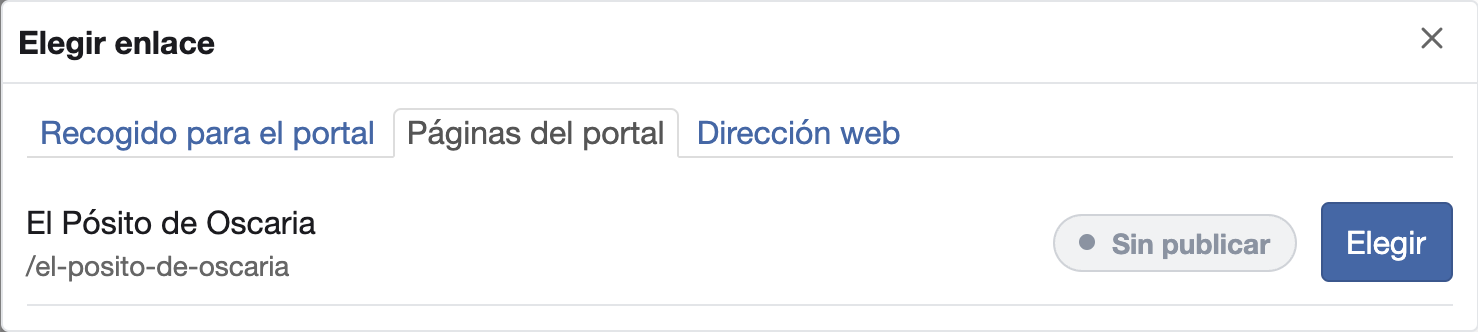
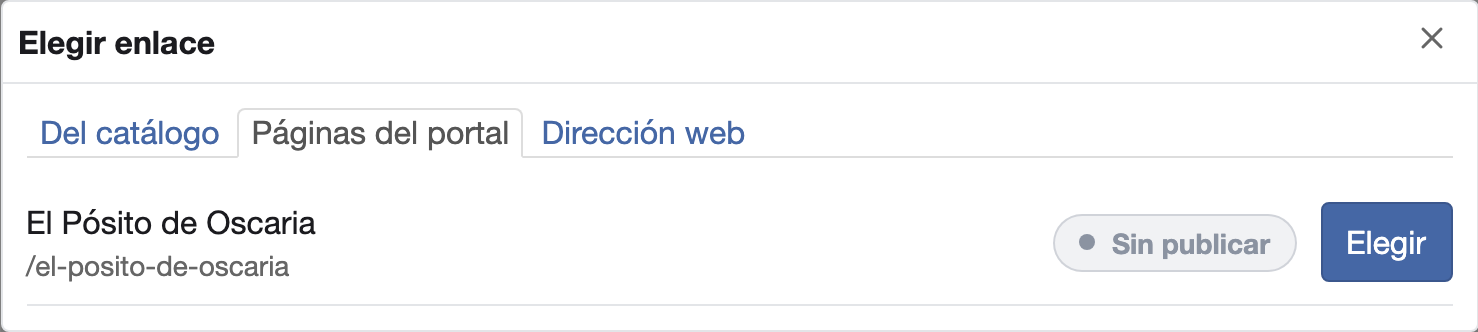
docs(user-guide): lista «Del catálogo», copia en el catálogo, flechas del carrusel y cabeceras sin estado
La guía explica la copia de la referencia en el catálogo, la pestaña «Del catálogo» de los diálogos de imagen y de enlace, el bloque alimentado por una búsqueda (cuenta de fichas, avisos y lista de elementos oculta) y las flechas del carrusel de cabecera. Las doce páginas del portal pierden el campo `status` y las tres capturas sin anchura la reciben.

diff --git a/docs/user-guide/diffusion-portal/catalog-content.md b/docs/user-guide/diffusion-portal/catalog-content.md
@@ -1,45 +1,57 @@
 # Elegir contenido del catálogo
 
 Una ficha, una búsqueda o un nivel del cuadro de clasificación se pueden poner en una página del portal sin escribir
-ninguna dirección. Se recogen en el catálogo y se eligen después desde el editor.
+ninguna dirección. Se copian en el catálogo y se eligen después desde el editor.
 
-## Recoger en el catálogo
+## Copiar en el catálogo
 
-La acción **Copiar referencia para el portal** la ven las cuentas con permiso de administración del portal. Está en:
+La acción **Copiar referencia para el portal** la ven las cuentas con permiso de administración del portal. En la ficha es un botón con su texto; en los resultados y en el cuadro, un icono. Está en:
 
 - la ficha de una descripción;
-- el visor de un adjunto, que recoge la digitalización;
+- el visor de un adjunto, que copia la digitalización;
 - las filas de los resultados que tienen signatura;
 - cada nivel del **Cuadro de fondos**.
 
-Para recoger una búsqueda entera, abre **Más acciones** en la página de resultados y pulsa **Copiar
-búsqueda para el portal**.
+En los resultados y en el cuadro, el icono solo se ve al pasar el ratón por la fila o al llegar a ella con Tab. En una
+pantalla táctil se ve siempre.
 
-Al pulsar, la acción cambia su texto a «Copiada y recogida para el portal». Además de copiar la referencia, la deja en tu
-lista de lo recogido, que el editor ofrece al elegir contenido. Una digitalización se recoge también desde **Gestión de
-digitalizaciones** ([Qué se guarda en el campo](choose-images.md#que-se-guarda-en-el-campo)).
+Para copiar una búsqueda entera, abre **Más acciones** en la página de resultados y pulsa **Copiar búsqueda para el
+portal**.
+
+Al pulsar, la referencia queda en el portapapeles y aparece el aviso «Copiada y añadida a «Del catálogo».». Si no se ha
+podido añadir a la lista, el aviso es «Copiada, pero no se ha podido añadir a «Del catálogo»: vuelve a pulsar.». Una
+digitalización se copia también desde
+**Gestión de digitalizaciones** ([Qué se guarda en el campo](choose-images.md#que-se-guarda-en-el-campo)).
 
 ## Elegirlo en el editor
 
-En el diálogo de una imagen o de un enlace, la primera pestaña es **Recogido para el portal**. Sin nada recogido,
-dice «Aquí aparecen las fichas y las digitalizaciones que recojas en el catálogo con «Copiar referencia para el
-portal».».
+Los diálogos de una imagen y de un enlace tienen la pestaña **Del catálogo**; el de una búsqueda, **Elegir búsqueda**,
+muestra la lista directamente. Con la lista vacía, el texto depende del diálogo:
 
-![El diálogo Elegir imagen con la pestaña Recogido para el portal, todavía vacía.](../../assets/screenshots/es/diffusion-portal/catalog-content/collected-tab.png){ width="739" }
+- En una imagen: «Aquí aparecen las fichas y las digitalizaciones que copies en el catálogo con «Copiar referencia
+  para el portal».».
+- En un enlace: «Aquí aparecen las fichas, las búsquedas y los niveles del cuadro que copies en el catálogo con
+  «Copiar referencia para el portal» o «Copiar búsqueda para el portal».».
+- En una búsqueda: «Aquí aparecen las búsquedas que copies en el catálogo con «Copiar búsqueda para el portal».».
 
-Lo último que recoges sale arriba. Una ficha, una búsqueda o un nivel se nombra por su tipo y su título, por ejemplo
-«Ficha: Plano de la acequia de San Esteban de Litera», y una digitalización por el nombre de su fichero. Cada entrada
-tiene dos botones:
+![El diálogo Elegir imagen con la pestaña Del catálogo, todavía vacía.](../../assets/screenshots/es/diffusion-portal/catalog-content/collected-tab.png){ width="739" }
 
-- **Elegir** la pone en el campo.
-- **Quitar de lo recogido** la saca de la lista, sin pedir confirmación. No borra nada del catálogo.
+Arriba está lo último que has copiado o elegido. Cada entrada se nombra por su tipo y su título, por ejemplo «Ficha:
+Plano de la acequia de San Esteban de Litera»; una digitalización, por el nombre de su fichero. Una ficha con imagen
+muestra su miniatura, una búsqueda tiene una lupa y un nivel del cuadro, una carpeta. **Buscar en la lista** filtra las
+entradas por su nombre.
 
-Un campo de imagen ofrece las fichas y las digitalizaciones. Una ficha que tiene imagen sale con ella, y el campo la
-muestra con su miniatura, el título de la ficha y su tamaño. Un campo de enlace ofrece las fichas, las búsquedas y los
-niveles del cuadro; las búsquedas y los niveles no llevan miniatura y el hueco queda vacío.
+Pulsar una entrada la elige. **Quitar** aparece al pasar el ratón por la entrada o al llegar a ella con Tab, y siempre
+en una pantalla táctil. Quita la entrada de la lista sin pedir confirmación y no borra nada del catálogo.
 
-El diálogo **Elegir imágenes**, el de **Añadir varias imágenes**, también tiene esta pestaña. Allí cada ficha y cada
-digitalización lleva una casilla en lugar de **Elegir**, y se pulsa **Añadir las marcadas**.
+La lista guarda 100 entradas por usuario. Cuando se llena, se descarta la que lleva más tiempo sin usarse. La
+instalación puede cambiar ese número.
+
+Un campo de imagen ofrece las fichas y las digitalizaciones; el campo muestra la miniatura, el título y el tamaño. Un
+campo de enlace ofrece las fichas, las búsquedas y los niveles del cuadro.
+
+El diálogo **Elegir imágenes**, el de **Añadir varias imágenes**, también tiene esta pestaña. Allí cada entrada tiene
+una casilla, y se pulsa **Añadir las marcadas**.
 
 El enlace se explica en [Elegir un enlace](choose-images.md#elegir-un-enlace).
 
@@ -50,18 +62,26 @@ uno a uno.
 
 1. Selecciona el bloque y pasa a la pestaña **Elementos**.
 2. En **De dónde salen los elementos**, elige **De una búsqueda del catálogo**.
-3. Pulsa **Elegir búsqueda…**. El diálogo **Elegir búsqueda** lista las búsquedas que has recogido.
+3. Pulsa **Elegir búsqueda…**. El diálogo **Elegir búsqueda** lista las búsquedas que has copiado, cada una con las
+   fichas que vería un visitante.
 
     ![El origen De una búsqueda del catálogo, con Elegir búsqueda…, el número de elementos y el orden.](../../assets/screenshots/es/diffusion-portal/catalog-content/items-source.png){ width="395" }
 
 Con la búsqueda elegida, el bloque muestra su nombre, por ejemplo «Búsqueda: Cualquier término contiene archivo», con
-**Cambiar** y **Quitar**. **Quitar** devuelve el bloque a **Los que añado yo**, con los elementos que ya tenía.
+**Cambiar**, **Quitar** y **Abrir en el catálogo**, que la abre en otra pestaña. Entonces la pestaña no lista los
+elementos ni ofrece **Añadir elemento**. **Quitar** devuelve el bloque a **Los que añado yo**, con los elementos que
+ya tenía.
 
 **Número de elementos** admite de 1 a 30. **Orden** ofrece **El de la búsqueda**, **Título**, **Fecha, de la más
-antigua a la más reciente**, **Fecha, de la más reciente a la más antigua** y **Signatura**.
+antigua a la más reciente**, **Fecha, de la más reciente a la más antigua** y **Signatura**. El bloque toma solo la
+primera página de resultados, de 30 fichas.
 
-El bloque enseña las fichas que vería un visitante sin sesión del sitio público, también en **Vista previa**. Los
-elementos que habías añadido a mano se conservan, pero no se muestran.
+El bloque enseña las fichas que vería un visitante sin sesión del sitio público, también en **Vista previa**, y solo
+las que tienen digitalización. El campo indica cuántas son: «Un visitante verá 8 de las 12 fichas que ves tú: las demás
+no son públicas o no tienen digitalizaciones.».
 
-Si ese visitante no vería ninguna ficha, debajo sale el aviso «Un visitante sin sesión no vería ninguna ficha de esta
-búsqueda, así que el bloque saldrá vacío.».
+Si el bloque va a quedar vacío, debajo aparece uno de estos avisos:
+
+- «Un visitante sin sesión no vería ninguna ficha de esta búsqueda, así que el bloque saldrá vacío.».
+- «Un visitante verá 3 fichas de esta búsqueda, pero el bloque no puede enseñar ninguna, así que saldrá vacío.».
+- «No se ha podido consultar esta búsqueda, así que el bloque saldrá vacío hasta que se pueda.».

diff --git a/docs/user-guide/diffusion-portal/choose-images.md b/docs/user-guide/diffusion-portal/choose-images.md
@@ -1,13 +1,9 @@
----
-status: published
----
-
 # Elegir las imágenes de un bloque
 
 Cada campo de imagen de un bloque, como **Imagen** o **Imagen de fondo**, se rellena desde el diálogo **Elegir
 imagen**. El diálogo tiene una pestaña por origen de la imagen:
 
-- **Recogido para el portal**: las fichas y las digitalizaciones que has recogido en el catálogo
+- **Del catálogo**: las fichas y las digitalizaciones que has copiado en el catálogo
   ([Elegir contenido del catálogo](catalog-content.md)).
 - **Digitalizaciones**: las copias digitales asociadas a las descripciones del archivo.
 - **Imágenes y vídeos del portal**: un espacio aparte para el material propio de la web, como cabeceras, logotipos o
@@ -46,9 +42,10 @@ elemento. Son el **Carrusel de cabecera**, la **Tira de imágenes de cabecera**,
 **Cuadrícula de elementos**, el **Mosaico de fotos**, la **Galería ajustada** y **Fondos y colecciones**.
 
 1. Selecciona el bloque y pasa a la pestaña **Elementos**.
-2. Pulsa **Añadir varias imágenes**. Se abre el diálogo **Elegir imágenes**, con las pestañas **Recogido para el
-   portal**, **Digitalizaciones** e **Imágenes y vídeos del portal**. En **Recogido para el portal** se marca cada
-   ficha o digitalización con su casilla y se pulsa **Añadir las marcadas**; los pasos 3 y 4 son para las otras dos pestañas. La pestaña **Dirección web** no sale aquí: cada dirección se escribe en su elemento.
+2. Pulsa **Añadir varias imágenes**. Se abre el diálogo **Elegir imágenes**, con las pestañas **Del catálogo**,
+   **Digitalizaciones** e **Imágenes y vídeos del portal**. En **Del catálogo** se marca cada ficha o digitalización
+   con su casilla y se pulsa **Añadir las marcadas**; los pasos 3 y 4 son para las otras dos pestañas. La pestaña
+   **Dirección web** no sale aquí: cada dirección se escribe en su elemento.
 3. Entra en la carpeta y marca la casilla de cada imagen, en el orden en que quieres verlas. Abajo aparece
    «Seleccionados» con el número de imágenes marcadas y sus nombres.
 4. Pulsa **Vincular**, que lleva entre paréntesis cuántas has marcado, por ejemplo **Vincular (3)**.
@@ -169,13 +166,13 @@ la imagen del almacén.
 La referencia solo la entiende el portal. No es una dirección para abrir en el navegador ni para compartir fuera de
 él.
 
-Una digitalización se puede recoger en la administración y elegirla después en **Recogido para el portal**:
+Una digitalización se puede copiar desde la administración y elegirla después en **Del catálogo**:
 
 1. Pulsa **Administración** en el menú superior y, después, **Gestión de digitalizaciones**.
 2. En la fila de la digitalización, pulsa **Más acciones** y después **Copiar referencia para el portal**. Sale el
-   aviso «Copiada y recogida para el portal». La acción la ven las cuentas con permiso de administración del portal.
-3. En el editor, abre el diálogo de la imagen. La digitalización sale en la pestaña **Recogido para el portal**, con
-   su nombre, y se elige con **Elegir** ([Elegir contenido del catálogo](catalog-content.md#elegirlo-en-el-editor)).
+   aviso «Copiada y añadida a «Del catálogo».». La acción la ven las cuentas con permiso de administración del portal.
+3. En el editor, abre el diálogo de la imagen. La digitalización sale en la pestaña **Del catálogo**, con
+   su nombre, y se elige pulsando su fila ([Elegir contenido del catálogo](catalog-content.md#elegirlo-en-el-editor)).
 
 ## Elegir un enlace
 
@@ -184,7 +181,7 @@ vacío, el botón es **Elegir enlace…**. Con un enlace elegido, el campo dice 
 portal» o «Ficha: Plano de la acequia de San Esteban de Litera», y ofrece **Cambiar** y **Quitar**. El diálogo se abre
 en la pestaña del origen del enlace elegido. Sus pestañas son:
 
-- **Recogido para el portal**: las fichas, las búsquedas y los niveles del cuadro de clasificación que has recogido
+- **Del catálogo**: las fichas, las búsquedas y los niveles del cuadro de clasificación que has copiado
   ([Elegir contenido del catálogo](catalog-content.md)).
 - **Páginas del portal**: las páginas de tu portal, con su título y su ruta. Las que aún no has publicado llevan la
   etiqueta **Sin publicar**.

diff --git a/docs/user-guide/diffusion-portal/video.md b/docs/user-guide/diffusion-portal/video.md
@@ -7,7 +7,7 @@ Pulsa **Añadir bloque** y elige **Vídeo** ([Antes de empezar](index.md#antes-d
 ejemplo de YouTube, con su título y su pie. Para poner el tuyo, elige en **Plataforma** dónde está publicado. Las
 opciones de abajo cambian según la plataforma.
 
-![Los campos Plataforma, con los orígenes del vídeo, y Vídeo, que avisa «Es un dato obligatorio.» mientras está vacío.](../../assets/screenshots/es/diffusion-portal/video/platform.png){ width="420" }
+![Los campos Plataforma, con los orígenes del vídeo, y Vídeo, que avisa «Es un dato obligatorio.» mientras está vacío.](../../assets/screenshots/es/diffusion-portal/video/platform.png){ width="394" }
 
 ## Un vídeo de YouTube
 
@@ -28,7 +28,7 @@ Con **Un vídeo de la institución**, el campo **Vídeo** muestra el botón **El
 vídeo** tiene las pestañas **Digitalizaciones** e **Imágenes y vídeos del portal**. El vídeo ha de ser un MP4. Mientras
 el campo está vacío, avisa «Es un dato obligatorio.».
 
-![El diálogo Elegir vídeo, con la pestaña Imágenes y vídeos del portal activa.](../../assets/screenshots/es/diffusion-portal/video/choose-video.png){ width="740" }
+![El diálogo Elegir vídeo, con la pestaña Imágenes y vídeos del portal activa.](../../assets/screenshots/es/diffusion-portal/video/choose-video.png){ width="739" }
 
 Para subir un vídeo de tu equipo:
 

diff --git a/docs/user-guide/diffusion-portal/carousel.md b/docs/user-guide/diffusion-portal/carousel.md
@@ -1,7 +1,3 @@
----
-status: published
----
-
 # Montar un carrusel de imágenes
 
 El bloque **Carrusel de cabecera** muestra varias imágenes a todo el ancho de la página, una tras otra. Suele ir en la
@@ -53,9 +49,12 @@ Lo demás está en grupos plegados. Pulsa el nombre de un grupo para abrirlo
 | **Paso de las imágenes** | **Tiempo entre imágenes (milisegundos)** | Tiempo que se ve cada imagen: 5000 son 5 segundos. El mínimo es 1000. | 5000 |
 | **Paso de las imágenes** | **Detener al pasar el ratón** | Detiene el paso de las imágenes mientras el ratón está sobre el carrusel. | Activada |
 | **Controles** | **Mostrar puntos de posición** | Muestra un punto por imagen para saltar a cualquiera. | Activada |
-| **Controles** | **Mostrar flechas** | Muestra las flechas de anterior y siguiente. | Activada |
+| **Controles** | **Mostrar flechas** | Muestra las flechas de anterior y siguiente al pasar el ratón por el carrusel o al llegar a él con el teclado. | Activada |
 
 Con una sola imagen, el carrusel no pasa de imagen ni muestra flechas ni puntos, aunque estén activados.
+
+En una pantalla táctil las flechas se ven siempre, salvo que el carrusel muestre los puntos de posición: entonces
+solo se ven los puntos.
 
 ## Cambiar la altura
 

diff --git a/docs/user-guide/diffusion-portal/templates.md b/docs/user-guide/diffusion-portal/templates.md
@@ -28,7 +28,7 @@ sin que se copie nada.
 Quien administra el portal mantiene las plantillas. En **Administración**, apartado **General**, pulsa **Plantillas de
 página**.
 
-![Plantillas de página, con la plantilla guardada, su descripción y sus acciones.](../../assets/screenshots/es/diffusion-portal/templates/templates.png){ width="640" }
+![Plantillas de página, con la plantilla guardada, su descripción y sus acciones.](../../assets/screenshots/es/diffusion-portal/templates/templates.png){ width="638" }
 
 1. Pulsa **Añadir plantilla**.
 2. En **Contenido**, elige la página de tu portal de la que se toma el contenido. Se guarda lo que ves en el editor,

diff --git a/docs/user-guide/diffusion-portal/publish.md b/docs/user-guide/diffusion-portal/publish.md
@@ -1,7 +1,3 @@
----
-status: published
----
-
 # Publicar una página y ver cómo la ve un visitante
 
 Los visitantes del portal no ven nada de lo que cambias hasta que publicas. Una vez publicada, el editor te da la

diff --git a/docs/user-guide/diffusion-portal/block-options.md b/docs/user-guide/diffusion-portal/block-options.md
@@ -1,7 +1,3 @@
----
-status: published
----
-
 # Ver y cambiar las demás opciones de un bloque
 
 Al seleccionar un bloque, el panel de la derecha muestra arriba solo las opciones que definen su contenido, como la

diff --git a/docs/user-guide/diffusion-portal/save-changes.md b/docs/user-guide/diffusion-portal/save-changes.md
@@ -1,7 +1,3 @@
----
-status: published
----
-
 # Guardar los cambios y entender sus avisos
 
 El editor guarda cada cambio de las opciones de un bloque solo: no hay botón de guardar. Los elementos de una lista,

diff --git a/docs/user-guide/diffusion-portal/search-box.md b/docs/user-guide/diffusion-portal/search-box.md
@@ -1,7 +1,3 @@
----
-status: published
----
-
 # Configurar la caja de búsqueda
 
 El bloque **Caja de búsqueda** pone en la página un buscador del catálogo del archivo. Puede llevar un enlace a la

diff --git a/docs/user-guide/diffusion-portal/image-zoom.md b/docs/user-guide/diffusion-portal/image-zoom.md
@@ -1,7 +1,3 @@
----
-status: published
----
-
 # Ampliar una imagen al hacer clic
 
 El bloque **Imagen con pie** muestra una imagen con un texto debajo. Puedes hacer que, al pulsarla, el visitante la

diff --git a/docs/user-guide/diffusion-portal/index.md b/docs/user-guide/diffusion-portal/index.md
@@ -1,7 +1,3 @@
----
-status: published
----
-
 # Portal de difusión
 
 El portal de difusión es la web pública de tu archivo. Sus páginas se montan con bloques en el editor de páginas, sin

diff --git a/docs/user-guide/diffusion-portal/select-block.md b/docs/user-guide/diffusion-portal/select-block.md
@@ -1,7 +1,3 @@
----
-status: published
----
-
 # Seleccionar un bloque
 
 Para cambiar un bloque, primero lo seleccionas. Sus opciones se abren en el panel de la derecha. Puedes seleccionarlo
